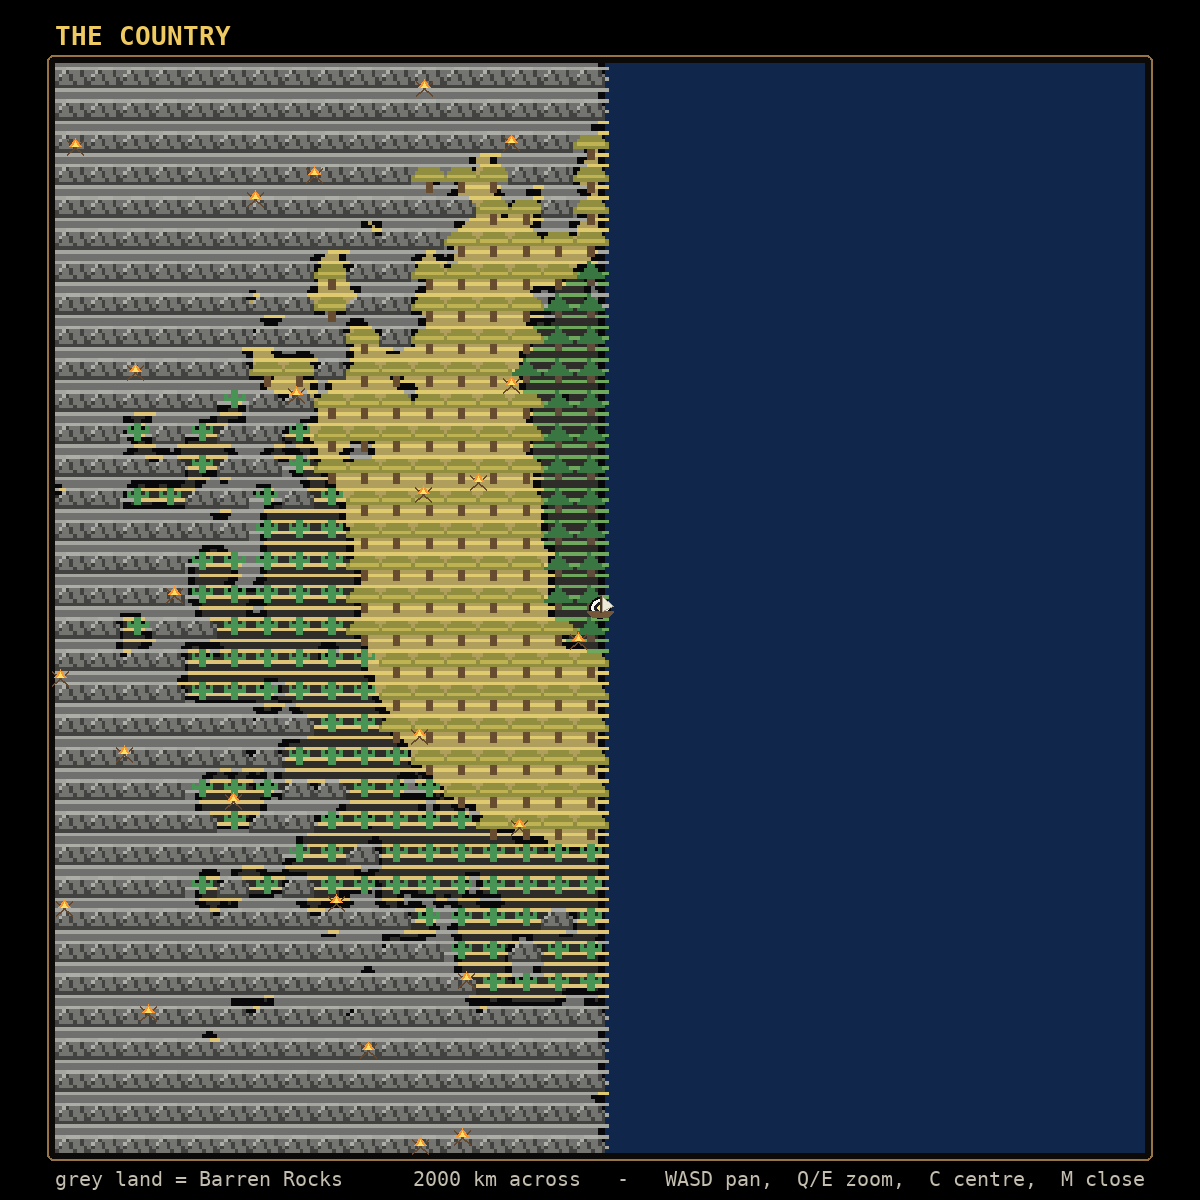
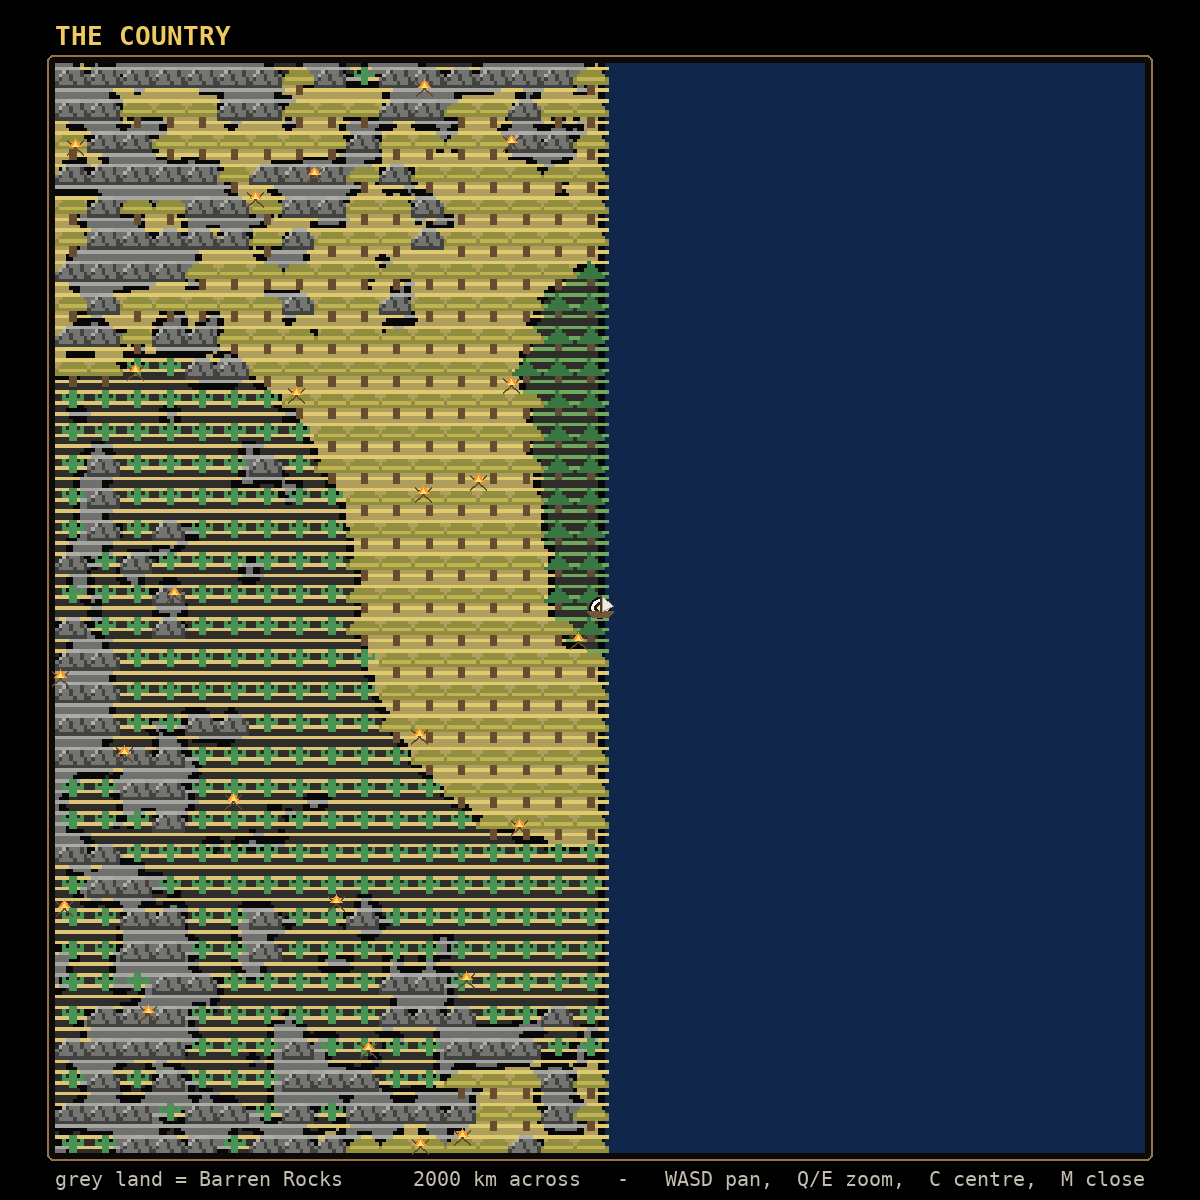
Keep the regular four biomes throughout the second ring and beyond; Barren Rocks are now a patchy additional overlay whose maximum share stays around half, never a solid grey wall.

diff --git a/biomes.py b/biomes.py
@@ -87,7 +87,9 @@ def barren_mask(x, y):
     ys = np.asarray(y, np.float32)
     d = np.hypot(xs - _SPAWN[0], ys - _SPAWN[1])
     ramp = np.clip((d - RING1_RADIUS) / 180000.0, 0.0, 1.0)
-    chance = 0.12 + 0.78 * (ramp * ramp * (3.0 - 2.0 * ramp))
+    # Barren Rocks are an ADDITIONAL possibility out here, not the whole
+    # country: even deep out, most ground is still one of the regular four.
+    chance = 0.06 + 0.48 * (ramp * ramp * (3.0 - 2.0 * ramp))
     return (d >= RING1_RADIUS) & (_barren_noise(x, y) < chance)
 
 
